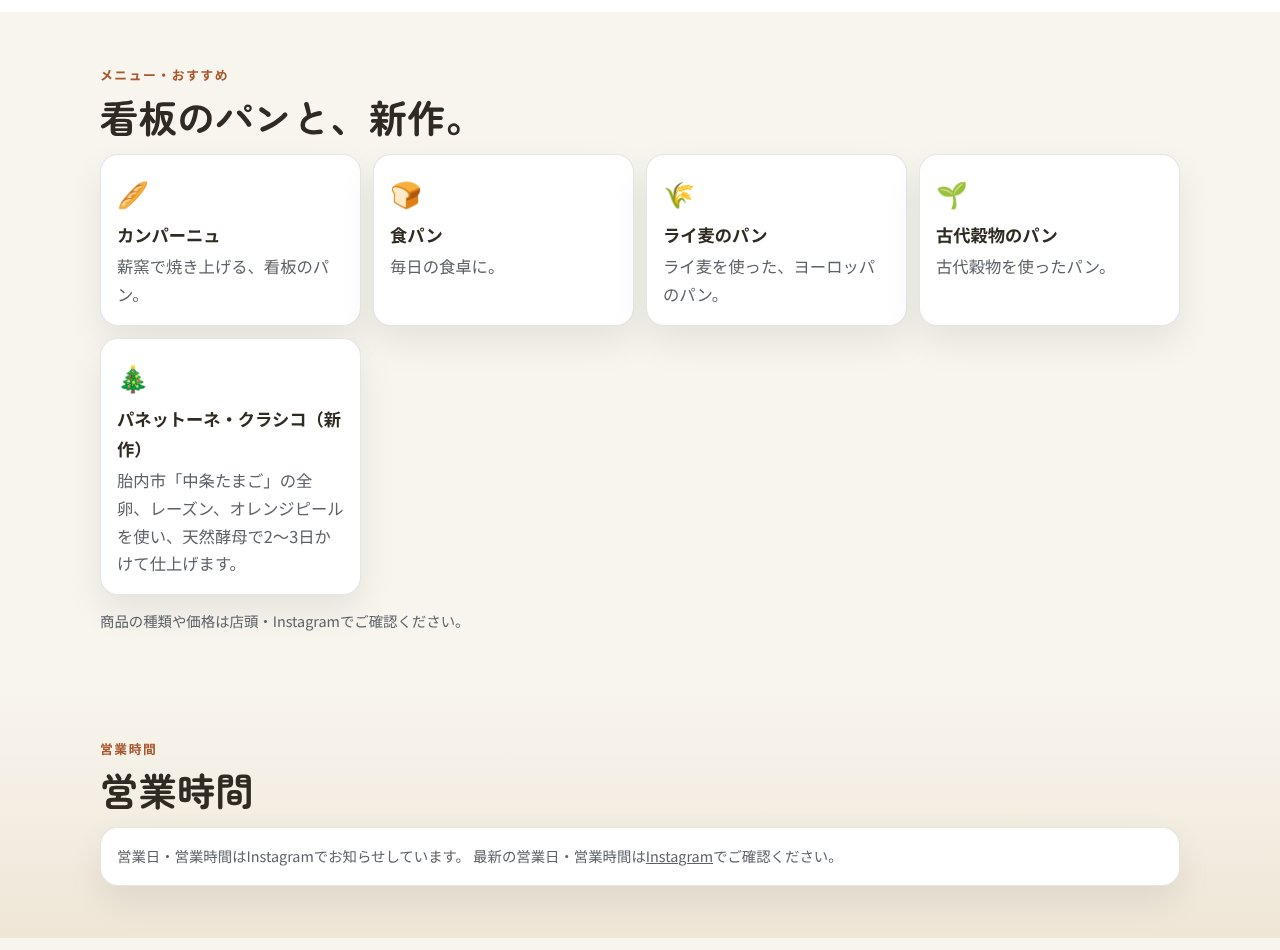
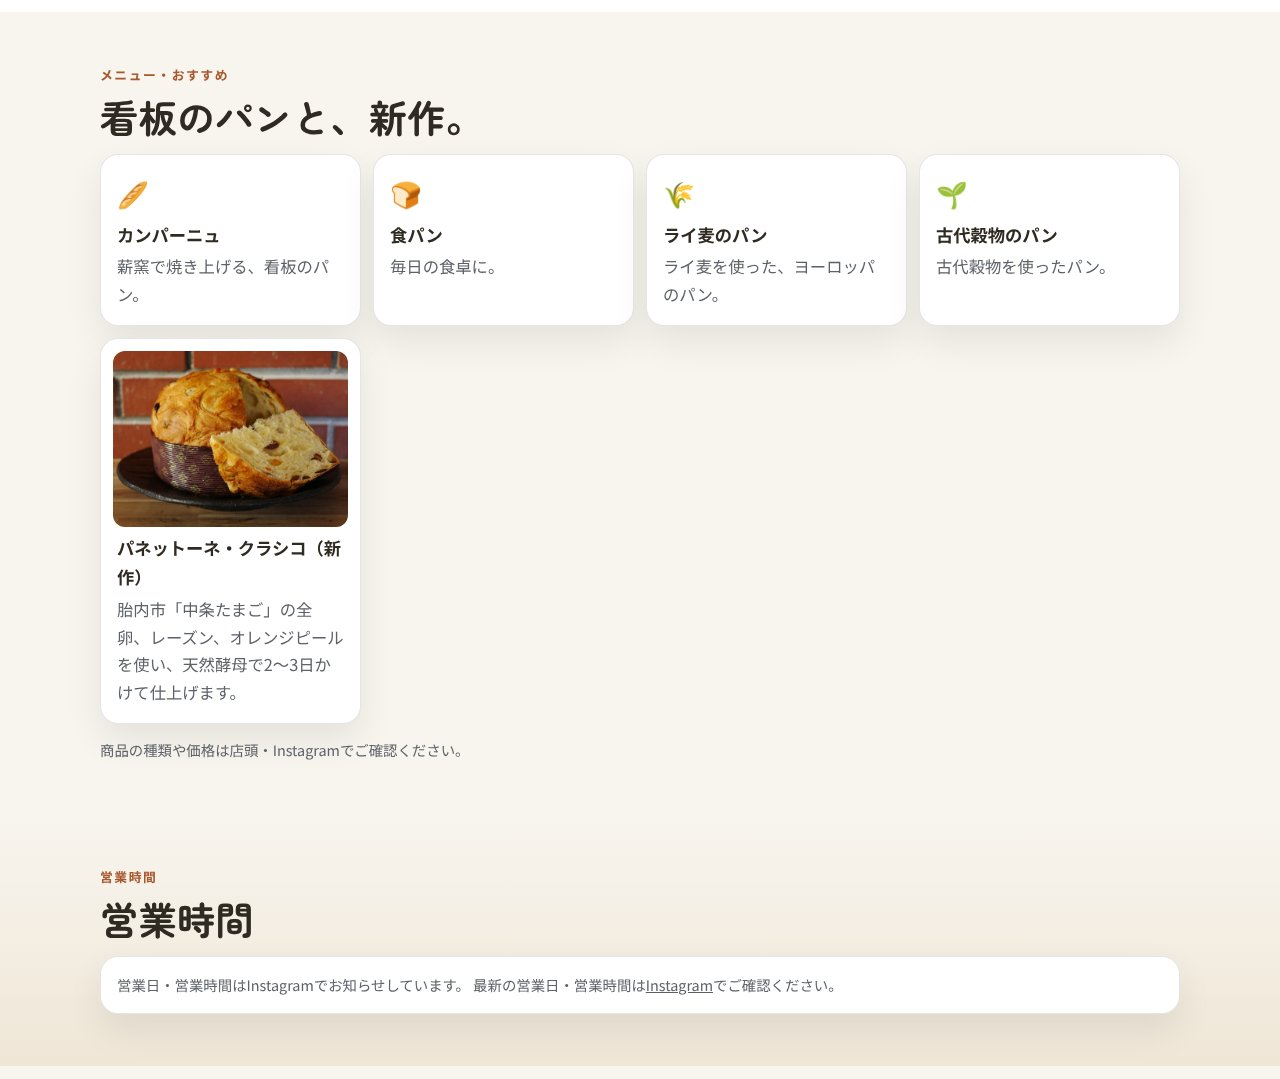
Use the shops' real photos in the 3 Japanese previews; regenerate email screenshots
- photo-hero.jpg replaces the drawn SVG hero on each page.
- grains: photo-1 on the panettone card; photo-2/3 (olive, walnut bread)
  in a gallery under the story.
- REIR dicha: photo-1 on the nail care card; photo-2 (nail-school lesson)
  under the story; photo-3 (storefront) in the access card.
- Noto Craft: photo-1/2 (Japanese and Western morning sets) on the
  morning-set card; photo-3 (community meal) under the story.
- Copy, prices, hours logic and structure unchanged; images keep their
  native size as an upper bound (no upscaling).
- email-desktop/section/mobile.jpg regenerated from the photo versions.

Claude-Session: https://claude.ai/code/session_01CXBa8JbmFYBkuNjUcMtq3T

Changed region(s): [[0.0625, 0.0611, 0.9375, 0.7021], [0.0625, 0.7632, 0.9375, 0.9463]]

diff --git a/preview/reir-dicha-matsudo/index.html b/preview/reir-dicha-matsudo/index.html
@@ -48,6 +48,12 @@
     .btn-ghost { color:inherit; border-color:color-mix(in srgb,currentColor 40%,transparent); } .btn-ghost:hover { background:rgba(127,127,127,.12); }
     .btn-solid { background:var(--accent2); color:#fff; }
     .art { width:min(100%,280px); justify-self:center; } .art svg { width:100%; height:auto; display:block; }
+    .art.photo { width:min(100%,380px); } .art.photo img { display:block; width:100%; height:auto; max-height:480px; object-fit:cover; border-radius:22px; box-shadow:0 18px 40px rgba(0,0,0,.28); margin:0 auto; }
+    .card-photos { display:grid; grid-auto-flow:column; grid-auto-columns:1fr; gap:6px; margin:-4px -4px 6px; }
+    .card-photos img { display:block; width:100%; height:auto; aspect-ratio:4/3; object-fit:cover; border-radius:12px; }
+    .gallery { display:grid; grid-template-columns:1fr 1fr; gap:12px; margin:22px 0 0; max-width:44rem; } .gallery figure { margin:0; }
+    .gallery img { display:block; width:100%; height:auto; aspect-ratio:4/3; object-fit:cover; border-radius:16px; }
+    .access-photo img { display:block; width:100%; height:auto; aspect-ratio:3/2; object-fit:cover; border-radius:14px; margin-bottom:10px; }
     section { padding:52px 18px; }
     .wrap { max-width:1080px; margin:0 auto; }
     .eyebrow { margin:0 0 6px; color:var(--accent2); font-size:.8rem; font-weight:700; letter-spacing:.12em; }
@@ -122,14 +128,14 @@
           </div>
           <div class="hero-actions"><a class="btn btn-ghost" href="https://www.google.com/maps/dir/?api=1&destination=REIR%20dicha%20%E3%83%AC%E3%82%A4%E3%83%BC%E3%83%AB%E3%83%87%E3%82%A3%E3%83%83%E3%83%81%E3%83%A3%20%E6%9D%BE%E6%88%B8%E5%B8%82%E4%BA%94%E9%A6%99" rel="noopener">道順を見る</a><a class="btn btn-ghost" href="https://www.instagram.com/reir.dicha/" rel="noopener">Instagram</a></div>
         </div>
-        <div class="art" aria-hidden="true"><svg viewBox="0 0 400 300" xmlns="http://www.w3.org/2000/svg"><ellipse cx="200" cy="254" rx="140" ry="14" fill="#ffffff" opacity=".25"/><circle cx="150" cy="200" r="26" fill="none" stroke="#ffffff" stroke-width="10"/><circle cx="150" cy="120" r="26" fill="none" stroke="#ffffff" stroke-width="10"/><path d="M170 186l110-90M170 134l110 90" stroke="#ffffff" stroke-width="10" stroke-linecap="round"/><rect x="292" y="70" width="22" height="160" rx="11" fill="#e8c4b8"/><path d="M292 96h-14M292 122h-14M292 148h-14M292 174h-14M292 200h-14" stroke="#e8c4b8" stroke-width="6" stroke-linecap="round"/><circle cx="96" cy="78" r="16" fill="#b0607a"/><circle cx="74" cy="104" r="10" fill="#e8c4b8"/></svg></div>
+        <div class="art photo"><img src="photo-hero.jpg" alt="REIR dichaのヘアサロンの店内" width="400" height="268" fetchpriority="high" decoding="async" style="max-width:400px"></div>
       </div>
     </section>
     <section class="story" id="story">
       <div class="wrap">
         <p class="eyebrow">お店について</p>
         <h2>ヘアもネイルも、ひとつのサロンで。</h2>
-        <p>REIR dichaは、2004年から五香で営むサロンです。2026年で22周年を迎えます。得意なのは、ショートヘアと髪質改善。</p><p>ヘアに加えて、ネイルケア・フットケア、まつげパーマ、メイク、ヘッドスパまで。ひとつのお店で、トータルにきれいを叶えます。セット面は6席、駐車場もあります。</p><p>少人数制のネイルスクールも運営しています。講師は、JNA本部認定講師の Emiko Itou さんです。</p>
+        <p>REIR dichaは、2004年から五香で営むサロンです。2026年で22周年を迎えます。得意なのは、ショートヘアと髪質改善。</p><p>ヘアに加えて、ネイルケア・フットケア、まつげパーマ、メイク、ヘッドスパまで。ひとつのお店で、トータルにきれいを叶えます。セット面は6席、駐車場もあります。</p><p>少人数制のネイルスクールも運営しています。講師は、JNA本部認定講師の Emiko Itou さんです。</p><div class="gallery"><figure><img src="photo-2.jpg" alt="ネイルスクールのレッスンの様子" width="400" height="583" loading="lazy" decoding="async" style="max-width:400px"></figure></div>
         <ul class="facts"><li>五香駅 徒歩1分</li><li>2004年オープン</li><li>セット面6席</li><li>駐車場あり</li></ul>
       </div>
     </section>
@@ -137,7 +143,7 @@
       <div class="wrap">
         <p class="eyebrow">メニュー・おすすめ</p>
         <h2>メニュー</h2>
-        <div class="grid"><article class="card"><div class="emoji" aria-hidden="true">✂</div><h3>カット</h3><p>¥5,280</p></article><article class="card"><div class="emoji" aria-hidden="true">💧</div><h3>水素トリートメント</h3><p>¥8,800〜¥13,200（髪の長さによります）</p></article><article class="card"><div class="emoji" aria-hidden="true">💅</div><h3>ネイルケア・フットケア</h3><p>ハンドもフットも。</p></article><article class="card"><div class="emoji" aria-hidden="true">👁</div><h3>まつげパーマ</h3><p>目元のメニュー。</p></article><article class="card"><div class="emoji" aria-hidden="true">💄</div><h3>メイク</h3><p>ヘアと合わせて。</p></article><article class="card"><div class="emoji" aria-hidden="true">🌿</div><h3>ヘッドスパ</h3><p>頭皮のケア。</p></article></div>
+        <div class="grid"><article class="card"><div class="emoji" aria-hidden="true">✂</div><h3>カット</h3><p>¥5,280</p></article><article class="card"><div class="emoji" aria-hidden="true">💧</div><h3>水素トリートメント</h3><p>¥8,800〜¥13,200（髪の長さによります）</p></article><article class="card"><div class="card-photos"><img src="photo-1.jpg" alt="ネイルスペース" width="400" height="360" loading="lazy" decoding="async" style="max-width:400px"></div><h3>ネイルケア・フットケア</h3><p>ハンドもフットも。</p></article><article class="card"><div class="emoji" aria-hidden="true">👁</div><h3>まつげパーマ</h3><p>目元のメニュー。</p></article><article class="card"><div class="emoji" aria-hidden="true">💄</div><h3>メイク</h3><p>ヘアと合わせて。</p></article><article class="card"><div class="emoji" aria-hidden="true">🌿</div><h3>ヘッドスパ</h3><p>頭皮のケア。</p></article></div>
         <p class="note">料金はお問い合わせ時にご確認ください。</p>
       </div>
     </section>
@@ -157,6 +163,7 @@
         <h2>お店への行き方</h2>
         <div class="visit-grid">
           <div class="card">
+            <div class="access-photo"><img src="photo-3.jpg" alt="REIR dichaの店頭" width="400" height="400" loading="lazy" decoding="async" style="max-width:400px"></div>
             <h3>REIR dicha（レイールディッチャ）</h3>
             <p class="addr">千葉県松戸市五香</p>
             <p>五香駅から徒歩1分。駐車場あり。</p>

diff --git a/preview/noto-craft-wakura/index.html b/preview/noto-craft-wakura/index.html
@@ -48,6 +48,12 @@
     .btn-ghost { color:inherit; border-color:color-mix(in srgb,currentColor 40%,transparent); } .btn-ghost:hover { background:rgba(127,127,127,.12); }
     .btn-solid { background:var(--accent2); color:#fff; }
     .art { width:min(100%,280px); justify-self:center; } .art svg { width:100%; height:auto; display:block; }
+    .art.photo { width:min(100%,380px); } .art.photo img { display:block; width:100%; height:auto; max-height:480px; object-fit:cover; border-radius:22px; box-shadow:0 18px 40px rgba(0,0,0,.28); margin:0 auto; }
+    .card-photos { display:grid; grid-auto-flow:column; grid-auto-columns:1fr; gap:6px; margin:-4px -4px 6px; }
+    .card-photos img { display:block; width:100%; height:auto; aspect-ratio:4/3; object-fit:cover; border-radius:12px; }
+    .gallery { display:grid; grid-template-columns:1fr 1fr; gap:12px; margin:22px 0 0; max-width:44rem; } .gallery figure { margin:0; }
+    .gallery img { display:block; width:100%; height:auto; aspect-ratio:4/3; object-fit:cover; border-radius:16px; }
+    .access-photo img { display:block; width:100%; height:auto; aspect-ratio:3/2; object-fit:cover; border-radius:14px; margin-bottom:10px; }
     section { padding:52px 18px; }
     .wrap { max-width:1080px; margin:0 auto; }
     .eyebrow { margin:0 0 6px; color:var(--accent2); font-size:.8rem; font-weight:700; letter-spacing:.12em; }
@@ -122,14 +128,14 @@
           </div>
           <div class="hero-actions"><a class="btn btn-ghost" href="https://www.google.com/maps/dir/?api=1&destination=%E8%83%BD%E7%99%BB%E3%82%AF%E3%83%A9%E3%83%95%E3%83%88%20%E4%B8%83%E5%B0%BE%E5%B8%82%E5%92%8C%E5%80%89%E7%94%BA" rel="noopener">道順を見る</a><a class="btn btn-ghost" href="https://www.instagram.com/noto.craft/" rel="noopener">Instagram</a></div>
         </div>
-        <div class="art" aria-hidden="true"><svg viewBox="0 0 400 300" xmlns="http://www.w3.org/2000/svg"><ellipse cx="200" cy="256" rx="150" ry="14" fill="#ffffff" opacity=".25"/><path d="M84 150h120l-12 90a14 14 0 0 1-14 12h-68a14 14 0 0 1-14-12z" fill="#ffffff"/><path d="M204 170c30 0 30 46 0 46" stroke="#ffffff" stroke-width="10" fill="none"/><path d="M118 130c-8-14 8-20 0-34M150 126c-8-14 8-20 0-34" stroke="#ffffff" stroke-width="5" fill="none" stroke-linecap="round" opacity=".7"/><ellipse cx="292" cy="214" rx="54" ry="34" fill="#d1603d"/><path d="M262 196c8-30 50-36 62-6" fill="#f2c14e"/><path d="M292 180v-26m0 0c-10-16-26-14-30-8m30 8c10-16 26-14 30-8" stroke="#f2c14e" stroke-width="6" fill="none" stroke-linecap="round"/><circle cx="320" cy="72" r="28" fill="#f2c14e" opacity=".6"/></svg></div>
+        <div class="art photo"><img src="photo-hero.jpg" alt="改装したカフェの店内" width="1200" height="800" fetchpriority="high" decoding="async" style="max-width:1200px"></div>
       </div>
     </section>
     <section class="story" id="story">
       <div class="wrap">
         <p class="eyebrow">お店について</p>
         <h2>和倉に、集まれる場所を。</h2>
-        <p>2024年の能登半島地震のあと、和倉温泉の旅館はすべて休業しました。能登クラフトは、元薬局の店舗を改装してひらいた、地元の人と観光で訪れる人が集まれる場所。能登の復興を応援する拠点です。</p><p>朝は能登の食材を使った和と洋のモーニングセット。お昼は能登豚のカレーや地鶏の唐揚げ。スムージーやアイスクリーム、とれたての能登の野菜も並びます。</p>
+        <p>2024年の能登半島地震のあと、和倉温泉の旅館はすべて休業しました。能登クラフトは、元薬局の店舗を改装してひらいた、地元の人と観光で訪れる人が集まれる場所。能登の復興を応援する拠点です。</p><p>朝は能登の食材を使った和と洋のモーニングセット。お昼は能登豚のカレーや地鶏の唐揚げ。スムージーやアイスクリーム、とれたての能登の野菜も並びます。</p><div class="gallery"><figure><img src="photo-3.jpg" alt="地域の人が集まる食事のひととき" width="1200" height="800" loading="lazy" decoding="async" style="max-width:1200px"></figure></div>
         <ul class="facts"><li>朝8:00から</li><li>能登の野菜を販売</li><li>2026年12月19日 グランドオープン</li><li>元薬局の店舗を改装</li></ul>
       </div>
     </section>
@@ -137,7 +143,7 @@
       <div class="wrap">
         <p class="eyebrow">メニュー・おすすめ</p>
         <h2>能登の食材を、朝から。</h2>
-        <div class="grid"><article class="card"><div class="emoji" aria-hidden="true">🍳</div><h3>モーニングセット（和・洋）</h3><p>能登の食材を使って、朝8:00から。</p></article><article class="card"><div class="emoji" aria-hidden="true">🍛</div><h3>能登豚のカレー</h3><p>お昼の看板メニュー。</p></article><article class="card"><div class="emoji" aria-hidden="true">🍗</div><h3>地鶏の唐揚げ</h3><p>地元の鶏を、唐揚げで。</p></article><article class="card"><div class="emoji" aria-hidden="true">🥤</div><h3>スムージー・アイスクリーム</h3><p>ひと休みのおともに。</p></article><article class="card"><div class="emoji" aria-hidden="true">🥬</div><h3>能登の野菜</h3><p>とれたての野菜を店頭で販売しています。</p></article></div>
+        <div class="grid"><article class="card"><div class="card-photos"><img src="photo-1.jpg" alt="和のモーニングセット" width="1200" height="800" loading="lazy" decoding="async" style="max-width:1200px"><img src="photo-2.jpg" alt="洋のモーニングセット" width="1200" height="800" loading="lazy" decoding="async" style="max-width:1200px"></div><h3>モーニングセット（和・洋）</h3><p>能登の食材を使って、朝8:00から。</p></article><article class="card"><div class="emoji" aria-hidden="true">🍛</div><h3>能登豚のカレー</h3><p>お昼の看板メニュー。</p></article><article class="card"><div class="emoji" aria-hidden="true">🍗</div><h3>地鶏の唐揚げ</h3><p>地元の鶏を、唐揚げで。</p></article><article class="card"><div class="emoji" aria-hidden="true">🥤</div><h3>スムージー・アイスクリーム</h3><p>ひと休みのおともに。</p></article><article class="card"><div class="emoji" aria-hidden="true">🥬</div><h3>能登の野菜</h3><p>とれたての野菜を店頭で販売しています。</p></article></div>
         <p class="note">メニューや野菜の内容は日によって変わります。</p>
       </div>
     </section>
@@ -157,6 +163,7 @@
         <h2>お店への行き方</h2>
         <div class="visit-grid">
           <div class="card">
+            
             <h3>能登クラフト</h3>
             <p class="addr">石川県七尾市和倉町</p>
             <p>和倉温泉にある、元薬局の店舗です。</p>

diff --git a/preview/grains-niigata/index.html b/preview/grains-niigata/index.html
@@ -48,6 +48,12 @@
     .btn-ghost { color:inherit; border-color:color-mix(in srgb,currentColor 40%,transparent); } .btn-ghost:hover { background:rgba(127,127,127,.12); }
     .btn-solid { background:var(--accent2); color:#fff; }
     .art { width:min(100%,280px); justify-self:center; } .art svg { width:100%; height:auto; display:block; }
+    .art.photo { width:min(100%,380px); } .art.photo img { display:block; width:100%; height:auto; max-height:480px; object-fit:cover; border-radius:22px; box-shadow:0 18px 40px rgba(0,0,0,.28); margin:0 auto; }
+    .card-photos { display:grid; grid-auto-flow:column; grid-auto-columns:1fr; gap:6px; margin:-4px -4px 6px; }
+    .card-photos img { display:block; width:100%; height:auto; aspect-ratio:4/3; object-fit:cover; border-radius:12px; }
+    .gallery { display:grid; grid-template-columns:1fr 1fr; gap:12px; margin:22px 0 0; max-width:44rem; } .gallery figure { margin:0; }
+    .gallery img { display:block; width:100%; height:auto; aspect-ratio:4/3; object-fit:cover; border-radius:16px; }
+    .access-photo img { display:block; width:100%; height:auto; aspect-ratio:3/2; object-fit:cover; border-radius:14px; margin-bottom:10px; }
     section { padding:52px 18px; }
     .wrap { max-width:1080px; margin:0 auto; }
     .eyebrow { margin:0 0 6px; color:var(--accent2); font-size:.8rem; font-weight:700; letter-spacing:.12em; }
@@ -122,14 +128,14 @@
           </div>
           <div class="hero-actions"><a class="btn btn-ghost" href="https://www.google.com/maps/dir/?api=1&destination=grains.%20%E3%82%B0%E3%83%AC%E3%82%A4%E3%83%B3%E3%82%BA%20%E6%96%B0%E6%BD%9F%E5%B8%82%E8%A5%BF%E5%8C%BA%E9%9D%92%E5%B1%B1" rel="noopener">道順を見る</a><a class="btn btn-ghost" href="https://www.instagram.com/grains_niigata/" rel="noopener">Instagram</a></div>
         </div>
-        <div class="art" aria-hidden="true"><svg viewBox="0 0 400 300" xmlns="http://www.w3.org/2000/svg"><ellipse cx="200" cy="250" rx="140" ry="16" fill="#ffffff" opacity=".25"/><path d="M90 230V150c0-40 50-62 110-62s110 22 110 62v80z" fill="#e2b66b"/><path d="M90 150c0-40 50-62 110-62s110 22 110 62c0 14-12 20-26 20H116c-14 0-26-6-26-20z" fill="#a8572e"/><path d="M150 112c8 14 8 30 0 44M200 104c8 16 8 34 0 50M250 112c8 14 8 30 0 44" stroke="#ffffff" stroke-width="7" stroke-linecap="round" fill="none" opacity=".7"/><circle cx="318" cy="70" r="30" fill="#e2b66b" opacity=".35"/></svg></div>
+        <div class="art photo"><img src="photo-hero.jpg" alt="grains.の看板のパン" width="1600" height="2400" fetchpriority="high" decoding="async" style="max-width:1600px"></div>
       </div>
     </section>
     <section class="story" id="story">
       <div class="wrap">
         <p class="eyebrow">お店について</p>
         <h2>この土地の味を、パンにする。</h2>
-        <p>店主でシェフの西方健さんは、パリ、ベルリン、ミラノとヨーロッパで約10年修業を重ねてきました。grains.のテーマは「土地を表現するパン」です。</p><p>天然酵母を使い、フランス式の薪窯で焼くパンには、新潟県産の小麦と地元の素材を使っています。カンパーニュや食パン、ライ麦や古代穀物のパンが看板です。</p>
+        <p>店主でシェフの西方健さんは、パリ、ベルリン、ミラノとヨーロッパで約10年修業を重ねてきました。grains.のテーマは「土地を表現するパン」です。</p><p>天然酵母を使い、フランス式の薪窯で焼くパンには、新潟県産の小麦と地元の素材を使っています。カンパーニュや食パン、ライ麦や古代穀物のパンが看板です。</p><div class="gallery"><figure><img src="photo-2.jpg" alt="オリーブのパン" width="1200" height="1800" loading="lazy" decoding="async" style="max-width:1200px"></figure><figure><img src="photo-3.jpg" alt="くるみのパン" width="1200" height="1800" loading="lazy" decoding="async" style="max-width:1200px"></figure></div>
         <ul class="facts"><li>フランス式の薪窯</li><li>天然酵母</li><li>新潟県産の小麦</li><li>地元の素材</li></ul>
       </div>
     </section>
@@ -137,7 +143,7 @@
       <div class="wrap">
         <p class="eyebrow">メニュー・おすすめ</p>
         <h2>看板のパンと、新作。</h2>
-        <div class="grid"><article class="card"><div class="emoji" aria-hidden="true">🥖</div><h3>カンパーニュ</h3><p>薪窯で焼き上げる、看板のパン。</p></article><article class="card"><div class="emoji" aria-hidden="true">🍞</div><h3>食パン</h3><p>毎日の食卓に。</p></article><article class="card"><div class="emoji" aria-hidden="true">🌾</div><h3>ライ麦のパン</h3><p>ライ麦を使った、ヨーロッパのパン。</p></article><article class="card"><div class="emoji" aria-hidden="true">🌱</div><h3>古代穀物のパン</h3><p>古代穀物を使ったパン。</p></article><article class="card"><div class="emoji" aria-hidden="true">🎄</div><h3>パネットーネ・クラシコ（新作）</h3><p>胎内市「中条たまご」の全卵、レーズン、オレンジピールを使い、天然酵母で2〜3日かけて仕上げます。</p></article></div>
+        <div class="grid"><article class="card"><div class="emoji" aria-hidden="true">🥖</div><h3>カンパーニュ</h3><p>薪窯で焼き上げる、看板のパン。</p></article><article class="card"><div class="emoji" aria-hidden="true">🍞</div><h3>食パン</h3><p>毎日の食卓に。</p></article><article class="card"><div class="emoji" aria-hidden="true">🌾</div><h3>ライ麦のパン</h3><p>ライ麦を使った、ヨーロッパのパン。</p></article><article class="card"><div class="emoji" aria-hidden="true">🌱</div><h3>古代穀物のパン</h3><p>古代穀物を使ったパン。</p></article><article class="card"><div class="card-photos"><img src="photo-1.jpg" alt="パネットーネ・クラシコ" width="1200" height="1800" loading="lazy" decoding="async" style="max-width:1200px"></div><h3>パネットーネ・クラシコ（新作）</h3><p>胎内市「中条たまご」の全卵、レーズン、オレンジピールを使い、天然酵母で2〜3日かけて仕上げます。</p></article></div>
         <p class="note">商品の種類や価格は店頭・Instagramでご確認ください。</p>
       </div>
     </section>
@@ -157,6 +163,7 @@
         <h2>お店への行き方</h2>
         <div class="visit-grid">
           <div class="card">
+            
             <h3>grains.（グレインズ）</h3>
             <p class="addr">新潟県新潟市西区青山</p>
             
